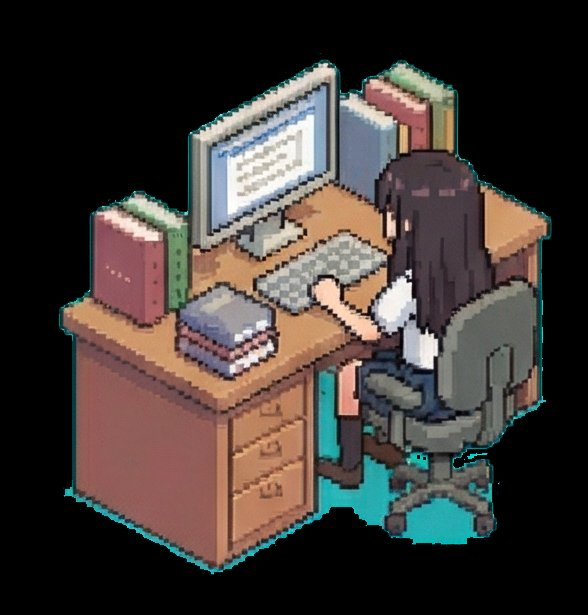
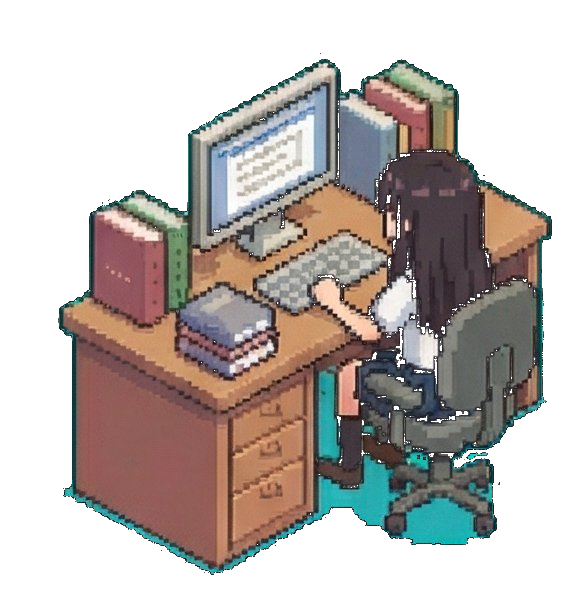
Add files via upload

diff --git a/main.py b/main.py
@@ -291,18 +291,15 @@ if(rc.length>0)detectActivity(rc)}
 const ACTIVITIES={
 crypto:{
   frames:['/static/crypto_1.png','/static/crypto_2.png','/static/crypto_3.png','/static/crypto_4.png'],
-  // 對齊房間電腦桌（sprite 自帶桌椅螢幕）
-  left:'24.5%',top:'13%',width:'20%'
+  left:'24.8%',top:'15.6%',width:'15%'
 },
 study:{
   frames:['/static/study_1.png','/static/study_2.png','/static/study_3.png'],
-  // 對齊房間懶人沙發（sprite 自帶沙發）
-  left:'37%',top:'30%',width:'17%'
+  left:'38%',top:'28.1%',width:'14%'
 },
 idle:{
   frames:['/static/idle_1.png','/static/idle_2.png','/static/idle_3.png'],
-  // 對齊房間畫架（sprite 自帶畫架凳子）
-  left:'53%',top:'33%',width:'14%'
+  left:'53.5%',top:'38.5%',width:'11%'
 }
 };
 let curActivity='idle',frameIdx=0,spriteTimer=null;
